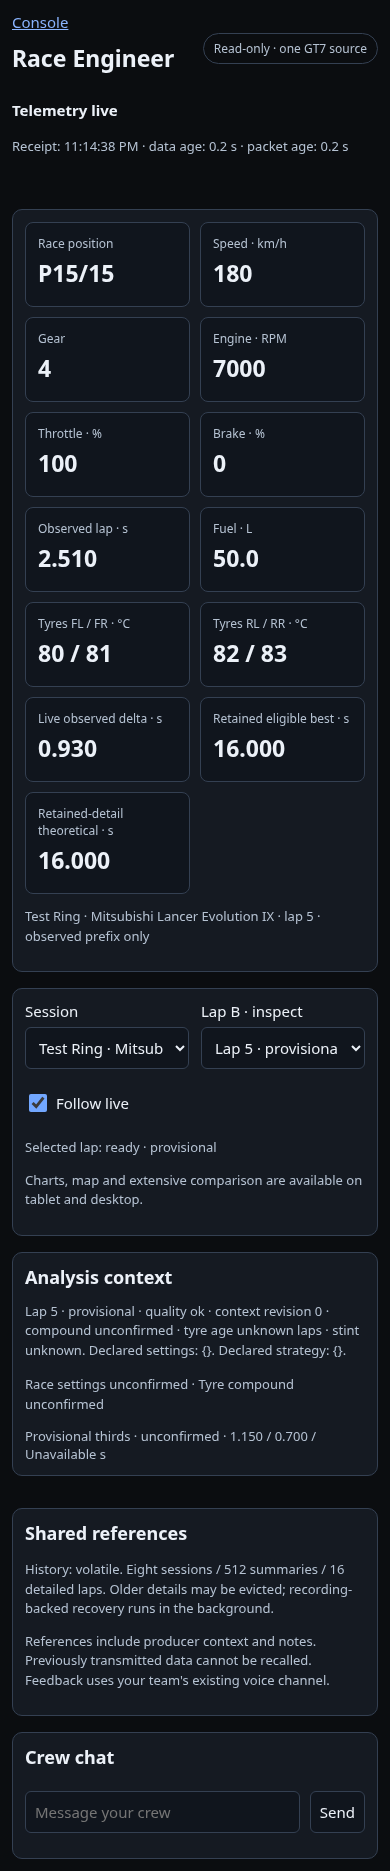
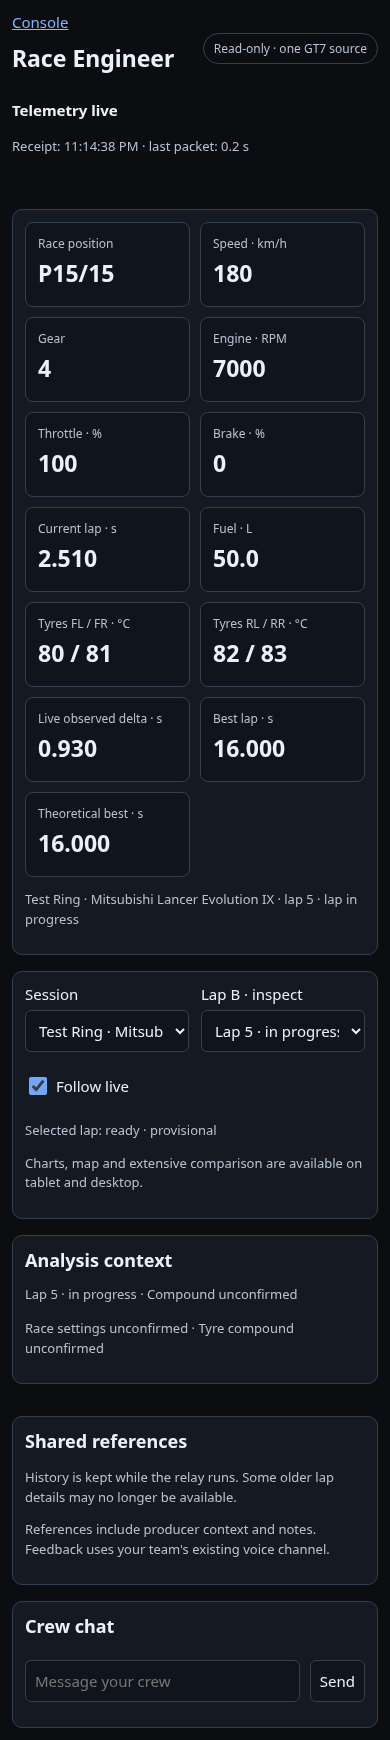
fix: clarify Engineer analysis values and sector displays (#863)
* fix: clarify Engineer analysis values and sector displays

* fix: scope empty best placeholders to the live session

* fix: keep chart units clear of the plotted values

* test: declare the display runner coroutine result

* docs: record delivered GT7 race position

---------

diff --git a/src/console/race-engineer.html b/src/console/race-engineer.html
@@ -6,7 +6,7 @@
 *{box-sizing:border-box}body{margin:0;background:var(--bg);color:var(--ink);font:15px system-ui}main{max-width:1600px;margin:auto;padding:20px}a{color:var(--blue)}header{display:flex;justify-content:space-between;align-items:center;gap:12px;flex-wrap:wrap}h1{font-size:26px;margin:10px 0}h2{font-size:18px;margin:0 0 12px}p{line-height:1.5}section,.card{background:var(--panel);border:1px solid var(--edge);border-radius:10px;padding:16px;margin-top:16px}.sub{color:var(--muted);font-size:13px}#status{font-weight:650}#notice{color:var(--orange);min-height:22px}#receipt{font-variant-numeric:tabular-nums}#instruments{display:grid;grid-template-columns:repeat(6,minmax(0,1fr));gap:10px}.value{padding:12px;border:1px solid var(--edge);border-radius:8px;background:#10151d}.value span{display:block;color:var(--muted);font-size:12px}.value strong{display:block;font-size:26px;margin:5px 0;font-variant-numeric:tabular-nums}.dim #instruments,.dim #plots{opacity:.5}.controls{display:flex;flex-wrap:wrap;gap:12px;align-items:end}.controls label{display:flex;flex-direction:column;gap:6px;flex:1;min-width:150px}.controls .check{flex:0 0 auto;flex-direction:row;align-items:center;min-width:120px;min-height:44px}select,input,button{font:inherit;color:var(--ink);background:#10151d;border:1px solid var(--edge);border-radius:6px;padding:9px;min-height:42px;max-width:100%}button{cursor:pointer}button:hover{border-color:var(--blue)}button:disabled{opacity:.5;cursor:default}input[type=checkbox]{min-height:0;width:18px;height:18px;accent-color:#72a7ff}input[type=range]{padding:0}#plots{display:grid;grid-template-columns:1.4fr 1fr;gap:16px}.plot-card{min-width:0}svg{display:block;width:100%;height:auto;background:#0f141c;border-radius:8px}svg text{fill:var(--muted);font:12px system-ui}#context-grid{display:grid;grid-template-columns:1fr 1fr;gap:16px}.scroll{overflow-x:auto}table{border-collapse:collapse;width:100%;font-variant-numeric:tabular-nums}th,td{text-align:right;padding:8px;border-bottom:1px solid var(--edge);white-space:nowrap}th:first-child,td:first-child{text-align:left}th{color:var(--muted)}#references{padding-left:22px}#references li{margin:6px 0}#chatlog{max-height:180px;overflow:auto;white-space:pre-wrap}#chat-form{display:flex;gap:10px;margin-top:10px}#chatin{flex:1;min-width:0}.mobile-note{display:none}.badge{padding:6px 10px;border:1px solid var(--edge);border-radius:20px;color:var(--muted)}[hidden]{display:none!important}
 @media(max-width:1200px){#instruments{grid-template-columns:repeat(3,minmax(0,1fr))}#plots{grid-template-columns:1fr}#context-grid{grid-template-columns:1fr}}
 @media(max-width:600px){main{padding:12px}h1{font-size:23px}#instruments{grid-template-columns:repeat(2,minmax(0,1fr))}.value strong{font-size:23px}.controls label{min-width:130px}#analysis{display:none}.mobile-note{display:block}.badge{font-size:12px}section{padding:12px}#chat-form{flex-wrap:wrap}}
-</style>
+.not-driven{color:#8995a5;font-weight:400}.gain{color:#a8dfbd}.loss{color:#ffd08a}</style>
 <script>window.RC_API_BASE="__RC_API_BASE__";window.RC_API=p=>(window.RC_API_BASE||'')+p;if(location.search)history.replaceState({},'',location.pathname);</script>
 </head><body><main>
 <header><div><a href="/console">Console</a><h1>Race Engineer</h1></div><span class="badge">Read-only · one GT7 source</span></header>
@@ -14,16 +14,17 @@
 <div id="protected" hidden>
 <section aria-label="Live instruments"><div id="instruments">
 <div class="value"><span>Race position</span><strong id="race-position">Unavailable</strong></div>
-<div class="value"><span>Speed · km/h</span><strong id="speed">Unavailable</strong></div><div class="value"><span>Gear</span><strong id="gear">Unavailable</strong></div><div class="value"><span>Engine · RPM</span><strong id="rpm">Unavailable</strong></div><div class="value"><span>Throttle · %</span><strong id="throttle">Unavailable</strong></div><div class="value"><span>Brake · %</span><strong id="brake">Unavailable</strong></div><div class="value"><span>Observed lap · s</span><strong id="lap-time">Unavailable</strong></div>
-<div class="value"><span>Fuel · L</span><strong id="fuel">Unavailable</strong></div><div class="value"><span>Tyres FL / FR · °C</span><strong id="tyres-front">Unavailable</strong></div><div class="value"><span>Tyres RL / RR · °C</span><strong id="tyres-rear">Unavailable</strong></div><div class="value"><span>Live observed delta · s</span><strong id="delta">Unavailable</strong></div><div class="value"><span>Retained eligible best · s</span><strong id="best">Unavailable</strong></div><div class="value"><span>Retained-detail theoretical · s</span><strong id="theory">Unavailable</strong></div>
+<div class="value"><span>Speed · km/h</span><strong id="speed">Unavailable</strong></div><div class="value"><span>Gear</span><strong id="gear">Unavailable</strong></div><div class="value"><span>Engine · RPM</span><strong id="rpm">Unavailable</strong></div><div class="value"><span>Throttle · %</span><strong id="throttle">Unavailable</strong></div><div class="value"><span>Brake · %</span><strong id="brake">Unavailable</strong></div><div class="value"><span>Current lap · s</span><strong id="lap-time">Unavailable</strong></div>
+<div class="value"><span>Fuel · L</span><strong id="fuel">Unavailable</strong></div><div class="value"><span>Tyres FL / FR · °C</span><strong id="tyres-front">Unavailable</strong></div><div class="value"><span>Tyres RL / RR · °C</span><strong id="tyres-rear">Unavailable</strong></div><div class="value"><span>Live observed delta · s</span><strong id="delta">Unavailable</strong></div><div class="value"><span>Best lap · s</span><strong id="best">Unavailable</strong></div><div class="value"><span>Theoretical best · s</span><strong id="theory">Unavailable</strong></div>
 </div><p id="source-state" class="sub"></p></section>
 <section><div class="controls"><label>Session<select id="session"></select></label><label>Lap B · inspect<select id="lap-b"></select></label><label class="check"><input id="follow" type="checkbox" checked>Follow live</label><span id="new-laps" class="sub" role="status"></span></div><p id="lap-state" class="sub">Waiting for analysis</p><p class="mobile-note sub">Charts, map and extensive comparison are available on tablet and desktop.</p></section>
 <div id="analysis">
 <section><div class="controls"><label>Reference source<select id="reference-source"><option value="">Selected session</option></select></label><label>Lap A · reference<select id="lap-a"></select></label><label>Chart channel<select id="channel"><option value="speed_kmh">Speed · km/h</option><option value="throttle">Throttle · %</option><option value="brake">Brake · %</option><option value="steer_deg">Steering · degrees</option><option value="gear">Gear</option></select></label></div><p id="comparison-state" class="sub">Choose an eligible reference lap</p><div class="controls"><label>Distance from · m<input id="zoom-from" type="number" min="0" value="0"></label><label>Distance to · m<input id="zoom-to" type="number" min="1" value="1000"></label><button id="zoom-reset" type="button">Full distance</button></div></section>
-<div id="plots"><section class="plot-card"><h2>Distance comparison</h2><p class="sub">A blue · B orange · delta B − A. Provisional values end at observed distance.</p><svg id="chart" viewBox="0 0 720 300" aria-label="Telemetry chart" role="img"></svg><svg id="delta-chart" viewBox="0 0 720 170" aria-label="Time delta chart" role="img"></svg></section><section class="plot-card"><h2>Track map</h2><p class="sub">Measured world coordinates and current reviewed markers</p><svg id="map" viewBox="0 0 480 420" aria-label="Measured lap track map" role="img"></svg></section></div>
-<section><h2>Mini-sectors</h2><p class="sub">Diagnostic 200 m segments. A partly driven sector and future sectors stay empty.</p><div class="scroll"><table id="sectors"><thead><tr><th>Sector</th><th>A · s</th><th>B · s</th><th>B − A · s</th></tr></thead><tbody></tbody></table></div></section>
+<div id="plots"><section class="plot-card"><h2>Distance comparison</h2><p class="sub">A blue · B orange · delta B − A. Provisional values end at observed distance.</p><svg id="chart" viewBox="0 0 720 300" aria-label="Telemetry chart" role="img"></svg><svg id="delta-chart" viewBox="0 0 720 170" aria-label="Time delta chart" role="img"></svg></section><section class="plot-card"><h2>Track map</h2><p class="sub">Measured world coordinates and current reviewed markers</p><svg id="map" viewBox="0 0 480 420" aria-label="Measured lap track map" role="img"></svg><p id="map-turns" class="sub"></p></section></div>
+<section id="larger-sectors"></section>
+<section><h2>Mini-sectors</h2><p class="sub">Diagnostic 200 m segments; a short final segment is grouped with its predecessor. Future sectors are not yet driven.</p><div class="scroll"><table id="sectors"><thead><tr><th>Sector</th><th>A · s</th><th>B · s</th><th>B − A · s</th></tr></thead><tbody></tbody></table></div></section>
 </div>
-<div id="context-grid"><section><h2>Analysis context</h2><p id="context" class="sub">No selected lap</p><ul id="notes"></ul><p id="limitations" class="sub"></p><div id="larger-sectors" class="sub"></div></section><section><h2>Shared references</h2><ul id="references"></ul><p id="history-state" class="sub"></p><p class="sub">References include producer context and notes. Previously transmitted data cannot be recalled. Feedback uses your team's existing voice channel.</p></section></div>
+<div id="context-grid"><section><h2>Analysis context</h2><p id="context" class="sub">No selected lap</p><ul id="notes"></ul><p id="limitations" class="sub"></p></section><section><h2>Shared references</h2><ul id="references"></ul><p id="history-state" class="sub"></p><p class="sub">References include producer context and notes. Feedback uses your team's existing voice channel.</p></section></div>
 <section><h2>Crew chat</h2><div id="chatlog" role="log" aria-label="Crew chat"></div><form id="chat-form"><input id="chatin" aria-label="Crew message" maxlength="1000" placeholder="Message your crew"><button id="chatsend" type="submit">Send</button></form><p id="chat-status" class="sub"></p></section>
 </div></main><!--__CREW_FRAME__-->
 <script>
@@ -32,7 +33,7 @@ const $=id=>document.getElementById(id), num=(v,d=1)=>typeof v==='number'&&Numbe
 const state={stopped:false,busy:false,analysisBusy:false,epoch:0,generation:null,snapshot:null,received:0,connected:false,problem:null,historyRevision:null,laps:[],sessions:[],refs:[],refLaps:[],refSource:'',a:'',b:'',session:'',follow:true,zoom:null,detail:null,pair:null,outline:null,mapFrame:null,known:new Set(),newLaps:0,analysisAvailable:false,lastAccess:0,lastChat:0,controllers:new Set()};
 let timer;
 function say(text){$('notice').textContent=text;}
-function clearPlots(clearOutline=true){state.mapFrame=null;if(clearOutline)state.outline=null;for(const id of ['chart','delta-chart','map'])$(id).replaceChildren();$('sectors').tBodies[0].replaceChildren();$('delta').textContent='Unavailable';$('context').textContent='No selected lap';$('notes').replaceChildren();$('limitations').textContent='';$('larger-sectors').textContent='';state.detail=null;state.pair=null;}
+function clearPlots(clearOutline=true){state.mapFrame=null;$('map-turns').textContent='';if(clearOutline)state.outline=null;for(const id of ['chart','delta-chart','map'])$(id).replaceChildren();$('sectors').tBodies[0].replaceChildren();$('delta').textContent='Unavailable';$('context').textContent='No selected lap';$('notes').replaceChildren();$('limitations').textContent='';$('larger-sectors').replaceChildren();state.detail=null;state.pair=null;}
 function stop(message){state.stopped=true;state.epoch++;clearInterval(timer);for(const c of state.controllers)c.abort();state.controllers.clear();state.snapshot=null;state.laps=[];state.sessions=[];state.refs=[];state.refLaps=[];state.a=state.b=state.session=state.refSource='';state.zoom=null;state.known.clear();state.connected=false;clearPlots();$('protected').hidden=true;for(const id of ['references','notes','chatlog','larger-sectors','session','lap-a','lap-b','reference-source'])$(id).replaceChildren();for(const el of document.querySelectorAll('.value strong'))el.textContent='Unavailable';for(const id of ['source-state','history-state','lap-state','comparison-state','new-laps'])$(id).textContent='';$('chatin').value='';$('context').textContent='';$('limitations').textContent='';$('receipt').textContent='';$('status').textContent=message;}
 class AccessLost extends Error{}
 class ReferenceLost extends Error{}
@@ -49,7 +50,7 @@ async function request(route,query={},method='GET',body=null){
 }
 function resetGeneration(generation){if(state.generation&&state.generation!==generation){state.epoch++;state.laps=[];state.sessions=[];state.known.clear();state.historyRevision=null;state.a=state.b=state.session=state.refSource='';state.refLaps=[];state.zoom=null;state.newLaps=0;clearPlots();say('Relay restarted. A new live generation is active; previous recordings remain history.');}state.generation=generation;}
 function options(id,rows,selected,empty){const el=$(id);el.replaceChildren();if(empty!==undefined){const o=document.createElement('option');o.value='';o.textContent=empty;el.append(o);}for(const row of rows){const o=document.createElement('option');o.value=row.id;o.textContent=row.label;el.append(o);}if(selected&&!rows.some(r=>r.id===selected)){const o=document.createElement('option');o.value=selected;o.textContent='Unavailable selection';el.append(o);}el.value=selected;}
-function lapLabel(r){return `Lap ${r.lap} · ${r.state==='provisional'?'provisional':num(r.time_s,3)+' s'}${r.line_position!=null&&r.line_car_count!=null?' · finish P'+r.line_position+'/'+r.line_car_count:''}${r.detail_state==='evicted'?' · evicted':''}${!r.comparison_eligible&&r.state!=='provisional'?' · limited':''}`;}
+function lapLabel(r){if(r.lap<=0)return 'Out lap · not timed';return `Lap ${r.lap} · ${r.state==='provisional'?'in progress':r.time_s==null?'Not timed':num(r.time_s,3)+' s'}${r.line_position!=null&&r.line_car_count!=null?' · finish P'+r.line_position+'/'+r.line_car_count:''}${r.detail_state==='evicted'?' · detail no longer kept':''}${!r.comparison_eligible&&r.state!=='provisional'?' · excluded from best':''}`;}
 function carLabel(row){return row.car||('car '+(row.car_id??'unknown'));}
 function referenceLabel(row){const source=row.session_id?.split(':')[1];return state.refs.find(r=>r.id===source)?.label||'Shared reference';}
 function selections(){
@@ -67,41 +68,51 @@ function selections(){
  $('follow').checked=state.follow;$('new-laps').textContent=state.newLaps?`${state.newLaps} newly completed lap${state.newLaps===1?'':'s'}`:'';
 }
 function instruments(snap){const v=snap.instruments||{};$('race-position').textContent=v.race_position!=null&&v.car_count!=null?`P${v.race_position}/${v.car_count}`:'Unavailable';for(const [id,value,d] of [['speed',v.speed_kmh,0],['gear',v.gear,0],['rpm',v.rpm,0],['throttle',v.throttle,0],['brake',v.brake,0],['fuel',v.fuel_l,1],['lap-time',snap.current?.elapsed_s,3],['best',snap.best_s,3],['theory',snap.theoretical_s,3]])$(id).textContent=num(value,d);
+ for(const id of ['lap-time','best','theory'])$(id).classList.remove('not-driven');if(snap.current?.lap<=0){$('lap-time').textContent='Out lap';$('lap-time').classList.add('not-driven');}if(snap.current&&!state.laps.some(r=>r.session_id===snap.current.session_id&&r.comparison_eligible)){for(const [id,value]of [['best',snap.best_s],['theory',snap.theoretical_s]])if(value==null){$(id).textContent='No eligible lap';$(id).classList.add('not-driven');}}
  const tyres=v.tyres_c||[];$('tyres-front').textContent=num(tyres[0],0)+' / '+num(tyres[1],0);$('tyres-rear').textContent=num(tyres[2],0)+' / '+num(tyres[3],0);
- $('source-state').textContent=snap.current?`${snap.current.track||'Unknown track'} · ${snap.current.car||'Unknown car'} · lap ${snap.current.lap} · observed prefix only`:'Waiting for a lap';
- $('history-state').textContent=`History: ${snap.history}. Eight sessions / 512 summaries / 16 detailed laps. Older details may be evicted; recording-backed recovery runs in the background.`;
+ $('source-state').textContent=snap.current?`${snap.current.track||'Unknown track'} · ${snap.current.car||'Unknown car'} · lap ${snap.current.lap} · lap in progress`:'Waiting for a lap';
+ $('history-state').textContent=snap.history==='recording-backed'?'Recorded history available. Older lap details are loaded when selected.':'History is kept while the relay runs. Some older lap details may no longer be available.';
 }
-function age(){if(state.stopped||!state.snapshot)return;const r=state.snapshot.receipt||{},since=(performance.now()-state.received)/1000,age=r.age_s==null?null:r.age_s+since,packetAge=r.packet_age_s==null?null:r.packet_age_s+since;
+function age(){if(state.stopped||!state.snapshot)return;const r=state.snapshot.receipt||{},since=(performance.now()-state.received)/1000,packetAge=r.packet_age_s==null?null:r.packet_age_s+since;
  const disconnected=!state.connected||since>=5,stale=packetAge!=null&&packetAge>=5;
  const label=state.problem||(disconnected?'Browser disconnected':stale?'Telemetry stale':({live:'Telemetry live',paused:'Game paused',menu:'Game menu',loading:'Game loading',waiting:'Waiting for telemetry',preparing:'Preparing telemetry',delayed:'Analysis delayed',stale:'Telemetry stale'}[r.state]||'Telemetry unavailable'));
  $('status').textContent=label;$('protected').classList.toggle('dim',disconnected||stale||r.state==='paused'||r.state==='menu'||r.state==='delayed');
- $('receipt').textContent=`Receipt: ${r.packet_received_at==null?'Unavailable':new Date(r.packet_received_at*1000).toLocaleTimeString()} · data age: ${age==null?'Unavailable':num(age,1)+' s'} · packet age: ${packetAge==null?'Unavailable':num(packetAge,1)+' s'}`;
+ $('receipt').textContent=`Receipt: ${r.packet_received_at==null?'Unavailable':new Date(r.packet_received_at*1000).toLocaleTimeString()} · last packet: ${packetAge==null?'Unavailable':num(packetAge,1)+' s'}`;
 }
 const ns='http://www.w3.org/2000/svg';function svg(tag,attrs={},text){const node=document.createElementNS(ns,tag);for(const [k,v]of Object.entries(attrs))node.setAttribute(k,String(v));if(text!==undefined)node.textContent=text;return node;}
-function graph(id,series,key,height,length=1){const el=$(id);el.replaceChildren();const rows=series.flatMap(s=>s.rows),bounds=state.zoom||[0,Math.max(1,length)],min=bounds[0],max=Math.max(min+1,bounds[1]);const visible=rows.filter(p=>p.d>=min&&p.d<=max&&typeof p[key]==='number');let lo=Math.min(0,...visible.map(p=>p[key])),hi=Math.max(1,...visible.map(p=>p[key]));if(hi===lo)hi=lo+1;
+function graph(id,series,key,height,length=1){const el=$(id);el.replaceChildren();const rows=series.flatMap(s=>s.rows),bounds=state.zoom||[0,Math.max(1,length)],min=bounds[0],max=Math.max(min+1,bounds[1]);const visible=rows.filter(p=>p.d>=min&&p.d<=max&&Number.isFinite(p[key]));if(!visible.length){el.append(svg('text',{x:360,y:height/2,'text-anchor':'middle'},key==='delta'?'No comparison yet':'No measurements for this channel'));if(length>1){el.append(svg('path',{d:`M52 ${height-30}H702`,stroke:'#566377',fill:'none'}));for(let i=0;i<4;i++){const d=min+(max-min)*i/3;el.append(svg('text',{x:52+650*i/3,y:height-9,'text-anchor':i===3?'end':'middle'},num(d,0)+' m'));}}return;}
+ const unit=({speed_kmh:'km/h',throttle:'%',brake:'%',steer_deg:'°',delta:'s',gear:''})[key]||'',floor=key==='delta'?.001:1;let lo=Math.min(0,...visible.map(p=>p[key])),hi=Math.max(floor,...visible.map(p=>p[key]));if(hi===lo)hi=lo+floor;
  const X=d=>52+(d-min)/(max-min)*650,Y=v=>height-30-(v-lo)/(hi-lo)*(height-55);el.append(svg('path',{d:`M52 20V${height-30}H702`,stroke:'#566377',fill:'none'}));
+ if(key==='delta')el.append(svg('path',{d:`M52 ${Y(0)}H702`,stroke:'#8995a5','stroke-dasharray':'4 4','data-zero':'true',fill:'none'}));
  for(let i=0;i<4;i++){const d=min+(max-min)*i/3;el.append(svg('text',{x:X(d),y:height-9,'text-anchor':i===3?'end':'middle'},num(d,0)+' m'));}
- el.append(svg('text',{x:8,y:24},num(hi,1)),svg('text',{x:8,y:height-30},num(lo,1)));
- for(const s of series){let path='',pen=false;for(const p of s.rows){if(p.d<min||p.d>max||typeof p[key]!=='number'){pen=false;continue;}path+=(pen?'L':'M')+X(p.d).toFixed(1)+' '+Y(p[key]).toFixed(1);pen=true;}el.append(svg('path',{d:path,stroke:s.color,fill:'none','stroke-width':2}));}
+ el.append(svg('text',{x:46,y:24,'text-anchor':'end'},num(hi,key==='delta'?3:1)),svg('text',{x:46,y:height-30,'text-anchor':'end'},num(lo,key==='delta'?3:1)));if(unit)el.append(svg('text',{x:702,y:16,'text-anchor':'end'},unit));
+ for(const s of series){let path='',pen=false;for(const p of s.rows){if(p.d<min||p.d>max||!Number.isFinite(p[key])){pen=false;continue;}path+=(pen?'L':'M')+X(p.d).toFixed(1)+' '+Y(p[key]).toFixed(1);pen=true;}el.append(svg('path',{d:path,stroke:s.color,fill:'none','stroke-width':2}));}
 }
+function cellValue(cell,value,future=false,empty='Unavailable',difference=false){cell.textContent=Number.isFinite(value)?num(value,3):future?'Not yet driven':empty;cell.classList.toggle('not-driven',!Number.isFinite(value)&&future);if(difference&&Number.isFinite(value))cell.classList.toggle(value<0?'gain':'loss',value!==0);}
+function miniRows(sectors,length){const n=Math.max(sectors.a.length,sectors.b.length),remainder=length%200,merge=n>1&&n===Math.ceil(length/200)&&remainder>0.01&&remainder<199.99;const rows=[];for(let i=0;i<n;i++){const last=merge&&i===n-2,indices=last?[i,i+1]:[i],sum=values=>indices.every(j=>Number.isFinite(values[j]))?indices.reduce((total,j)=>total+values[j],0):null;rows.push({label:last?`${i+1}–${i+2}`:String(i+1),end:last?length:Math.min(length,(i+1)*200),a:sum(sectors.a),b:sum(sectors.b),delta:sum(sectors.delta)});if(last)break;}return rows;}
+function readableContext(B){const labels={bop:'BoP',fixed_setup:'Fixed setup',tyre_x:'Tyre wear',fuel_x:'Fuel use',time_progression:'Time progression',time_of_day:'Time of day',fuel_map:'Fuel map',shortshift:'Short shift'},values={...(B.context_settings||{}),...(B.strategy||{})},declared=Object.entries(labels).filter(([key])=>values[key]!=null).map(([key,label])=>label+': '+(typeof values[key]==='boolean'?(values[key]?'Yes':'No'):String(values[key])));return [B.lap<=0?'Out lap · not timed':`Lap ${B.lap} · ${B.state==='provisional'?'in progress':'completed'}`,B.compound||'Compound unconfirmed',B.tyre_age_laps!=null?'Tyre age '+B.tyre_age_laps+' laps':null,...declared].filter(Boolean).concat(Object.entries(B.strategy?.targets||{}).map(([gear,rpm])=>`Shift target G${gear}: ${rpm} RPM`)).join(' · ');}
+function renderSections(B,A,pair,observed){const el=$('larger-sectors');el.replaceChildren();const section=B.larger_sectors;if(!section){el.textContent='No reviewed section definition';return;}const title=document.createElement('h2');title.textContent='Track sections';el.append(title);const status=document.createElement('p');status.className='sub';status.textContent=section.name+' · '+(section.reviewed?'Reviewed':'Unconfirmed');el.append(status);if(!section.reviewed)return;const other=A?.larger_sectors,matched=pair?.definition_compatible&&other?.reviewed&&section.variant_id===other.variant_id&&section.bounds_m?.length===other.bounds_m?.length&&section.bounds_m.every((v,i)=>v===other.bounds_m[i]);const table=document.createElement('table'),head=table.createTHead().insertRow();for(const label of ['Section','A · s','B · s','B − A · s']){const th=document.createElement('th');th.textContent=label;head.append(th);}const body=table.createTBody();for(let i=0;i<section.times_s.length;i++){const row=body.insertRow(),b=section.times_s[i],a=matched?other.times_s[i]:null,future=B.state==='provisional'&&section.bounds_m[i+1]>observed;row.insertCell().textContent=section.names[i]||'Section '+(i+1);cellValue(row.insertCell(),a,false,matched?'Unavailable':'No matching reference');cellValue(row.insertCell(),b,future);cellValue(row.insertCell(),Number.isFinite(a)&&Number.isFinite(b)&&pair.compatible?b-a:null,future,'Unavailable',true);}el.append(table);}
+function turnLabel(map,occupied,x,y,label){const text=svg('text',{'data-turn':'true'},label);map.append(text);for(let step=0;step<40;step++){const candidateY=Math.min(402,Math.max(18,y+(step%2?1:-1)*Math.ceil(step/2)*16)),candidateX=Math.min(438,Math.max(8,x+5));text.setAttribute('x',candidateX);text.setAttribute('y',candidateY);const b=text.getBBox(),box={x:candidateX,y:candidateY-14,w:b.width||label.length*8,h:16};if(!occupied.some(a=>box.x<a.x+a.w+4&&a.x<box.x+box.w+4&&box.y<a.y+a.h+2&&a.y<box.y+box.h+2)){occupied.push(box);return;}}text.remove();}
+
 function renderMarker(){const map=$('map');for(const node of map.querySelectorAll('[data-live-car]'))node.remove();const frame=state.mapFrame,position=state.snapshot?.instruments?.position,current=state.snapshot?.current,plane=frame?.plane,sameTrack=current&&plane&&(plane.track_id&&plane.track_id===current.track_id||plane.session_id===current.session_id);if(frame&&position&&sameTrack&&Number.isFinite(position.x)&&Number.isFinite(position.z))map.append(svg('circle',{cx:30+(position.x-frame.xmin)*frame.scale,cy:30+(position.z-frame.zmin)*frame.scale,r:5,fill:'#ffd08a','data-live-car':'true','aria-label':'Live car position'}));}
 function render(){const B=state.detail,pair=state.pair,outline=pair?.a?.trace_complete?pair.a:state.outline,A=pair?.a||(state.outline?.id===state.a?state.outline:null);clearPlots(false);state.detail=B;state.pair=pair;if(!B&&!outline)return;
  const trace=B?.trace||[],length=Math.max(1,outline?.length_m||outline?.trace?.at(-1)?.d||B?.length_m||trace.at(-1)?.d||0);if(!state.zoom&&!['zoom-from','zoom-to'].includes(document.activeElement?.id)){$('zoom-from').value=0;$('zoom-to').value=Math.round(length);}
  graph('chart',[{rows:A?.trace||[],color:'#8ab4ff'},{rows:trace,color:'#ffd08a'}],$('channel').value,300,length);
  graph('delta-chart',[{rows:pair?.delta||[],color:'#a8dfbd'}],'delta',170,length);
+ $('map-turns').textContent=B?.larger_sectors?.reviewed?(B.corner_metrics||[]).map(c=>'T'+c.number+(c.name?' '+c.name:'')).join(' · '):'';
  const map=$('map'),points=(outline?.trace?.length?outline.trace:trace).filter(p=>Number.isFinite(p.x)&&Number.isFinite(p.z));
  if(points.length){const xs=points.map(p=>p.x),zs=points.map(p=>p.z),xmin=Math.min(...xs),xmax=Math.max(...xs),zmin=Math.min(...zs),zmax=Math.max(...zs),scale=Math.min(420/Math.max(1,xmax-xmin),360/Math.max(1,zmax-zmin)),X=x=>30+(x-xmin)*scale,Y=z=>30+(z-zmin)*scale;
   for(const [rows,color]of [[outline?.trace||[],'#8ab4ff'],[trace,'#ffd08a']])map.append(svg('path',{d:rows.filter(p=>Number.isFinite(p.x)&&Number.isFinite(p.z)).map((p,i)=>(i?'L':'M')+X(p.x).toFixed(1)+' '+Y(p.z).toFixed(1)).join(''),stroke:color,fill:'none','stroke-width':2,'data-outline':rows===outline?.trace?'complete':'observed'}));
   state.mapFrame={xmin,zmin,scale,plane:outline||B};renderMarker();
-  if(B?.larger_sectors?.reviewed)for(const c of B.corner_metrics||[]){const p=trace.find(p=>p.d>=c.apex_m);if(p)map.append(svg('text',{x:X(p.x)+5,y:Y(p.z)},'T'+c.number));}
+  if(B?.larger_sectors?.reviewed){const occupied=[];for(const c of B.corner_metrics||[]){const p=trace.find(p=>p.d>=c.apex_m);if(p)turnLabel(map,occupied,X(p.x),Y(p.z),'T'+c.number);}}
  }
  if(!B)return;
- const observed=trace.at(-1)?.d||0;const sectors=pair?.mini_sectors||{a:[],b:(B.sectors||[]).map((v,i)=>B.state==='provisional'&&(i+1)*200>observed?null:v),delta:[]},body=$('sectors').tBodies[0];for(let i=0;i<Math.max(sectors.a.length,sectors.b.length);i++){const row=body.insertRow();for(const v of [String(i+1),num(sectors.a[i],3),num(sectors.b[i],3),num(sectors.delta[i],3)])row.insertCell().textContent=v;}
+ const observed=trace.at(-1)?.d||0;const sectors=pair?.mini_sectors||{a:[],b:(B.sectors||[]).map((v,i)=>B.state==='provisional'&&(i+1)*200>observed?null:v),delta:[]},body=$('sectors').tBodies[0];for(const item of miniRows(sectors,length)){const row=body.insertRow(),future=B.state==='provisional'&&item.end>observed;row.insertCell().textContent=item.label;cellValue(row.insertCell(),item.a,false,A?'Unavailable':'No reference');cellValue(row.insertCell(),item.b,future);cellValue(row.insertCell(),item.delta,future,'Unavailable',true);}
  const end=pair?.delta?.at(-1);$('delta').textContent=pair?.compatible&&end&&B.id===state.snapshot?.current?.id?num(end.delta,3):'Unavailable';
- $('context').textContent=`Lap ${B.lap} · ${B.state} · quality ${B.data_quality||'unknown'} · context revision ${B.context_revision??'unavailable'} · ${B.compound||'compound unconfirmed'} · tyre age ${B.tyre_age_laps??'unknown'} laps · stint ${B.stint_id||'unknown'}. Declared settings: ${JSON.stringify(B.context_settings||{})}. Declared strategy: ${JSON.stringify(B.strategy||{})}.`;
+ $('context').textContent=readableContext(B);
  $('notes').replaceChildren();for(const n of B.notes||[]){const li=document.createElement('li');li.textContent=n.text;$('notes').append(li);}
  $('limitations').textContent=[...(pair?.warnings||B.context_warnings||[]),...(B.track_definition_warnings||[])].filter((x,i,a)=>a.indexOf(x)===i).join(' · ');
- $('larger-sectors').textContent=B.larger_sectors?`${B.larger_sectors.name} · ${B.larger_sectors.reviewed?'reviewed':'unconfirmed'} · ${(B.larger_sectors.times_s||[]).map(v=>num(v,3)).join(' / ')} s`:'No confirmed larger-sector definition';
+ renderSections(B,A,pair,observed);
 }
 function revoke(message){state.epoch++;state.refSource='';state.refLaps=[];if(state.a.startsWith('r:'))state.a='';if(state.b.startsWith('r:')){state.b=state.snapshot?.current?.id||'';state.session=state.snapshot?.session_id||'';}clearPlots();say(message||'Shared reference was revoked or removed. Its protected view has been cleared.');}
 async function access(){const data=await request('/race-engineer/access');state.analysisAvailable=!!data.analysis_available;state.refs=data.references||[];$('references').replaceChildren();for(const r of state.refs){const li=document.createElement('li');li.textContent=r.label;$('references').append(li);}if(state.refSource&&!state.refs.some(r=>r.id===state.refSource))revoke();$('protected').hidden=false;return data;}

diff --git a/tools/e2e-engineer-display.py b/tools/e2e-engineer-display.py
@@ -1,0 +1,98 @@
+#!/usr/bin/env python3
+"""Signed desk browser checks for empty, provisional and reviewed analysis display."""
+import asyncio
+import re
+import sys
+import tempfile
+from pathlib import Path
+
+ROOT = Path(__file__).resolve().parents[1]
+sys.path.insert(0, str(ROOT/'tests'))
+from engineer_ui_fixture import Fixture, gate
+
+async def main():
+    from playwright.async_api import async_playwright
+    with tempfile.TemporaryDirectory(prefix='racecast-display-') as root:
+        fixture=Fixture(root); fixture.access().update(enabled=True,expected=0)
+        server=fixture.console(with_live=True); fixture.feed_live()
+        try:
+            async with async_playwright() as pw:
+                browser=await pw.chromium.launch(headless=True)
+                page=await browser.new_page(viewport={'width':1440,'height':1050})
+                token=gate.m.console_auth.mint_token(gate.SECRET,'engineer')
+                await page.goto(f'http://127.0.0.1:{server.server_port}/console/race-engineer?t={token}')
+                await page.wait_for_function('() => EngineerDesk.state.pair?.state === "ready" && !EngineerDesk.state.analysisBusy')
+                await page.evaluate('() => {clearInterval(timer);state.savedB=structuredClone(state.detail);state.savedPair=structuredClone(state.pair);}')
+                await page.evaluate('() => {state.savedLaps=state.laps;state.laps=[{session_id:"previous",comparison_eligible:true}];instruments({...state.snapshot,current:{...state.snapshot.current,session_id:"new"},best_s:null,theoretical_s:null});}')
+                assert await page.locator('#best').inner_text() == 'No eligible lap', 'previous session hid the empty best state'
+                assert await page.locator('#theory').inner_text() == 'No eligible lap', 'previous session hid the empty theoretical state'
+                await page.evaluate('() => {state.laps=state.savedLaps;instruments(state.snapshot);}')
+
+                context=await page.locator('#context').inner_text()
+                assert '{}' not in context and 'Declared settings' not in context, 'empty JSON remained in context'
+                body=await page.locator('body').inner_text()
+                assert '512 summaries' not in body and 'cannot be recalled' not in body, 'internal limits remained on desk'
+                assert 'Retained-detail' not in body and 'observed prefix only' not in body and 'data age' not in body, 'technical jargon remained'
+                cell=page.locator('#sectors tbody tr').first.locator('td').nth(2)
+                assert await cell.inner_text() == 'Not yet driven', 'future sector rendered as missing data'
+                assert 'not-driven' in (await cell.get_attribute('class') or ''), 'future sector was not muted'
+                assert await cell.evaluate('(el)=>getComputedStyle(el).color!==getComputedStyle(document.body).color'), 'future placeholder used the measured-value color'
+                out=await page.evaluate('() => lapLabel({lap:0,state:"confirmed",time_s:null,comparison_eligible:false})')
+                assert 'Out lap' in out and 'Unavailable' not in out and 'Lap 0' not in out, 'out lap read as missing timed lap'
+                assert 'Out lap' in await page.evaluate('() => readableContext({lap:0,state:"confirmed"})'), 'out-lap context claimed a completed lap'
+                await page.evaluate('() => graph("delta-chart",[],"delta",170,0)')
+                empty=await page.locator('#delta-chart').text_content()
+                assert 'No comparison' in empty and '0 m' not in empty, 'empty delta chart invented axes'
+                await page.evaluate('() => graph("delta-chart",[{rows:[{d:0,delta:-1},{d:1000,delta:1}],color:"red"}],"delta",170,1000)')
+                assert 's' in await page.locator('#delta-chart').text_content(), 'delta axis lost seconds'
+                assert await page.locator('#delta-chart [data-zero]').count() == 1, 'delta chart lost zero line'
+                zero=await page.locator('#delta-chart [data-zero]').get_attribute('d')
+                curve=await page.locator('#delta-chart path').last.get_attribute('d')
+                points=re.findall(r'(?:M|L)([\d.]+) ([\d.]+)',curve)
+                middle=(float(points[0][1])+float(points[-1][1]))/2
+                assert abs(float(zero.split()[1].split('H')[0])-middle)<.01, 'zero line did not cross zero delta' 
+                # The display groups the 3 m tail with the preceding 200 m block.
+                await page.evaluate('''() => {state.detail={...state.savedB,state:"confirmed",trace_complete:true,length_m:1003,trace:[{d:0,t:0,x:0,z:0},{d:1003,t:16,x:1,z:1}],sectors:[3,3,3,3,3,.02]};state.pair={compatible:true,b:state.detail,a:{...state.detail,id:"other",sectors:[3,3,3,3,3,.01]},delta:[],mini_sectors:{a:[3,3,3,3,3,.01],b:[3,3,3,3,3,.02],delta:[0,0,0,0,0,.01]}};render();}''')
+                assert await page.locator('#sectors tbody tr').count() == 5, 'tiny trailing mini-sector remained separate'
+                last=await page.locator('#sectors tbody tr').last.inner_text()
+                assert '3.010' in last and '3.020' in last and '0.010' in last, 'grouped tail lost measured times'
+                await page.evaluate('() => {state.pair.mini_sectors.b[5]=null;render();}')
+                assert await page.locator('#sectors tbody tr').last.locator('td').nth(2).inner_text() == 'Unavailable', 'missing tail produced a summed time'
+                # Only matching reviewed definitions may show a larger-sector delta.
+                await page.evaluate('''() => {const sections={reviewed:true,name:"Three race sections",names:["Opening","Middle","Closing"],bounds_m:[0,300,700,1003],times_s:[3,7,6],variant_id:"three"};state.detail={...state.detail,larger_sectors:sections,definition_fingerprint:"same",sector_variant_id:"three",corner_metrics:Array.from({length:8},(_,i)=>({number:i+1,apex_m:1003}))};state.pair={...state.pair,b:state.detail,a:{...state.detail,larger_sectors:{...sections,times_s:[4,6,6]}},definition_compatible:true};render();}''')
+                table=page.locator('#larger-sectors table')
+                assert await table.locator('tbody tr').count() == 3, 'reviewed sections were not structured'
+                text=await table.inner_text()
+                assert 'Opening' in text and '-1.000' in text and '1.000' in text, 'reviewed sections lost gain/loss'
+                boxes=await page.locator('#map text[data-turn]').evaluate_all('(nodes) => nodes.map(n=>{const r=n.getBBox();return {x:r.x,y:r.y,w:r.width,h:r.height};})')
+                assert len(boxes) == 8, 'adjacent turn labels disappeared'
+                assert all(a['x']+a['w']<=b['x'] or b['x']+b['w']<=a['x'] or a['y']+a['h']<=b['y'] or b['y']+b['h']<=a['y'] for i,a in enumerate(boxes) for b in boxes[i+1:]), 'turn labels overlapped'
+                for mutation, restore in [
+                    ('state.pair.a.larger_sectors.reviewed=false', 'state.pair.a.larger_sectors.reviewed=true'),
+                    ('state.pair.a.larger_sectors.variant_id="other"', 'state.pair.a.larger_sectors.variant_id="three"'),
+                    ('state.pair.a.larger_sectors.bounds_m=[0,301,700,1003]', 'state.pair.a.larger_sectors.bounds_m=[0,300,700,1003]'),
+                    ('state.pair.a.larger_sectors.bounds_m=[0,300,700,1003,1100]', 'state.pair.a.larger_sectors.bounds_m=[0,300,700,1003]'),
+                    ('state.pair.compatible=false', 'state.pair.compatible=true'),
+                    ('state.pair.a.larger_sectors.times_s=[null,6,6]', 'state.pair.a.larger_sectors.times_s=[4,6,6]')]:
+                    await page.evaluate('() => {'+mutation+';render();}')
+                    assert '-1.000' not in await page.locator('#larger-sectors').inner_text(), 'unmatched reference sections claimed a delta'
+                    if 'times_s=[null' in mutation:
+                        assert await table.locator('tbody tr').first.locator('td').nth(3).inner_text() == 'Unavailable', 'missing section time produced a delta'
+
+                    await page.evaluate('() => {'+restore+';render();}')
+                await page.evaluate('() => {state.pair.definition_compatible=false;render();}')
+                assert '-1.000' not in await page.locator('#larger-sectors').inner_text(), 'mismatched sections claimed a delta'
+                await page.evaluate('() => {state.detail.larger_sectors.reviewed=false;render();}')
+                assert 'Unconfirmed' in await page.locator('#larger-sectors').inner_text(), 'unreviewed sections claimed confirmation'
+                assert await page.locator('#larger-sectors table').count() == 0, 'unreviewed sections rendered confirmed timing rows'
+                await page.evaluate('''() => {state.detail={...state.savedB,context_settings:{bop:true,fuel_x:3},strategy:{fuel_map:2,targets:{"3":6500},shortshift:"<img src=x onerror=alert(1)>"}};state.pair=null;render();}''')
+                named=await page.locator('#context').inner_text()
+                assert 'BoP' in named and '3' in named and 'Fuel map' in named and 'Shift target G3: 6500 RPM' in named, 'declared values were not named'
+                assert await page.locator('#context img').count() == 0, 'declared context became HTML'
+                await browser.close()
+        finally:
+            server.shutdown();server.server_close();fixture.live.close()
+    print('PASS Engineer desk display cleanup: all eight items')
+    return None
+
+if __name__=='__main__':asyncio.run(main())

diff --git a/tools/e2e-engineer-desk.py b/tools/e2e-engineer-desk.py
@@ -16,7 +16,11 @@ async def main():
     with tempfile.TemporaryDirectory(prefix='racecast-desk-browser-') as root:
         fixture=Fixture(root)
         fixture.access().update(enabled=True,expected=0)
-        server=fixture.console(with_live=True); fixture.feed_live()
+        server=fixture.console(with_live=True)
+        if '--shots' in sys.argv:
+            from test_gt7_track_definitions import definition
+            fixture.live._definitions.save(definition(), 0)
+        fixture.feed_live()
         import gt7_recording, gt7_telemetry
         wall, _, raw = list(gt7_recording.Recording(fixture.live_path).packets())[-1]
         fixture.live.put(gt7_telemetry.parse_packet(raw)._replace(race_position=15, car_count=15), wall + .02)
@@ -38,7 +42,7 @@ async def main():
                 errors=[];page.on('pageerror',lambda e:errors.append(str(e)))
                 await page.wait_for_function('() => EngineerDesk.state.pair?.state === "ready"')
                 assert await page.locator('#chart path').count() >= 2
-                assert await page.locator('#sectors tbody tr').first.locator('td').nth(2).inner_text() == 'Unavailable'
+                assert await page.locator('#sectors tbody tr').first.locator('td').nth(2).inner_text() == 'Not yet driven'
                 assert await page.locator('#zoom-to').input_value() == '1000'
                 # A pending comparison must still use a completed lap as the outline.
                 async def pending_pair(route):

diff --git a/src/docs/wiki/Race-Engineer.md b/src/docs/wiki/Race-Engineer.md
@@ -17,7 +17,7 @@ and live delta describe received data; neither advances without new packets.
 Race position reads **P15/15**, for example, from GT7's own-car position and field
 size. Missing or inconsistent readings remain unavailable. Completed lap options
 include the position measured at the line when GT7 provided it. No gaps to
-other cars are inferred. Receipt time, data age and packet age remain visible.
+other cars are inferred. Receipt time and age of the last telemetry packet remain visible.
 
 Select **Session** and **Lap B** to inspect retained current or prior-session laps.
 Sessions show the track, vehicle name and lap count; unknown names fall back to
@@ -26,7 +26,8 @@ Select an eligible **Lap A** from the selected session, or choose a producer-sha
 **Reference source**. The charts use the same validated distance stations, sector
 and context rules as the local Control Center. Blue is A, orange is B, delta is
 B minus A. The current lap is provisional; future curve sections and incomplete
-200 m sectors remain empty. Confirmed best and theoretical values exclude it.
+200 m sectors say **Not yet driven** in muted text. Missing measurements remain
+**Unavailable**, and untimed lap zero reads **Out lap**. Confirmed best and theoretical values exclude it.
 While the lap grows, comparison retains the latest completed observed prefix and
 refreshes it in the background. Its displayed distance identifies that prefix.
 The map uses the complete selected reference lap as its outline, or the latest
@@ -39,8 +40,13 @@ Change the chart channel or distance limits to inspect braking, throttle, speed,
 steering or gear. **Full distance** resets zoom. The map uses measured world
 coordinates. The car marker comes from the latest measured snapshot, independently of
 the selected lap endpoint. Missing coordinates and unrelated historical tracks
-do not show a current car. Larger sectors and corner markers keep their reviewed/unconfirmed
-status. Unknown tracks compare only within the same source and session; known
+do not show a current car. Reviewed larger sections show named A/B times and gain or loss when both laps
+use the same confirmed definition. Unconfirmed definitions retain their status.
+A short trailing mini-sector is grouped with its predecessor for display; shared
+analysis values are unchanged. Curves show their channel units, delta has a zero
+line, and an empty comparison has a message, retains known distance and omits artificial axes. Turn labels
+avoid overlaps and have a textual legend. Declared settings and strategy use named
+values rather than raw JSON. Unknown tracks compare only within the same source and session; known
 car, compound or strategy contradictions prevent the default comparison.
 
 **Follow live** selects the newest active lap. Manually choosing a session or lap

diff --git a/src/docs/design/engineer-desk-display-cleanup.md b/src/docs/design/engineer-desk-display-cleanup.md
@@ -1,0 +1,19 @@
+# Engineer desk display cleanup
+
+Requirements and verification for all eight items in #853 under #850. Nothing is deferred.
+
+| Item | Production path | Positive proof | Failure proof | Runtime proof |
+| --- | --- | --- | --- | --- |
+| Readable declared context | Desk context formatter | Named settings and strategy values | Empty objects omitted; arbitrary text stays text | Signed desk and browser assertions |
+| Operator-facing history text | Desk history/reference copy | Recovery and availability explained | Internal counts and data-recall warning absent from desk | Browser text |
+| Missing versus not driven | Tiles, lap labels and sector cells | Muted not-driven states and out-lap label | Missing confirmed data stays Unavailable | Actual provisional prefix plus boundary fixtures |
+| Delta axes and zero | SVG graph | Seconds and zero line with known full distance | Empty graph keeps known distance only; no invented range | Browser SVG assertions |
+| Tiny trailing segment | Mini-sector presentation | Trailing remainder grouped with preceding segment | Missing/incomplete values cannot produce a summed time | Browser 1003 m fixture; shared analysis unchanged |
+| Turn label collisions | Map label placement | Distinct bounded labels for adjacent turns | Unplaceable label has a readable legend entry | Browser overlapping-apex fixture |
+| Reviewed larger sections | Section table | Names, A/B times and gain/loss for the same reviewed definition | Unreviewed/mismatched definitions never claim a matched delta | Real synthetic reviewed definition and browser |
+| Plain terminology | Tiles/source/receipt/status | Current lap, best lap, theoretical best and last packet age | No duplicate data-age label or retained-detail jargon | Three viewport screenshots |
+
+The presentation groups a trailing incomplete 200 m block with its preceding
+block. It sums only known times and preserves all shared numerical analysis and
+raw distance stations. A pending/future block never supplies a complete time.
+Larger-sector comparisons require matching reviewed definition and variant.

diff --git a/src/docs/design/race-engineer-live-session-plan.md b/src/docs/design/race-engineer-live-session-plan.md
@@ -17,7 +17,7 @@ The standing release PR is outside this work.
   explicit data update and offline fallback; run synthetic checks in CI.
 - [x] #852: show car and granted reference names, reset manual new-lap notices,
   and draw the current snapshot's car independently from selected lap traces.
-- [ ] #854: parse validated race position/car count, publish instruments and
+- [x] #854: parse validated race position/car count, publish instruments and
   lap-line position, and display position on the desk.
 - [ ] #853: implement all eight display cleanup items as planned; record any deferred
   items explicitly.
